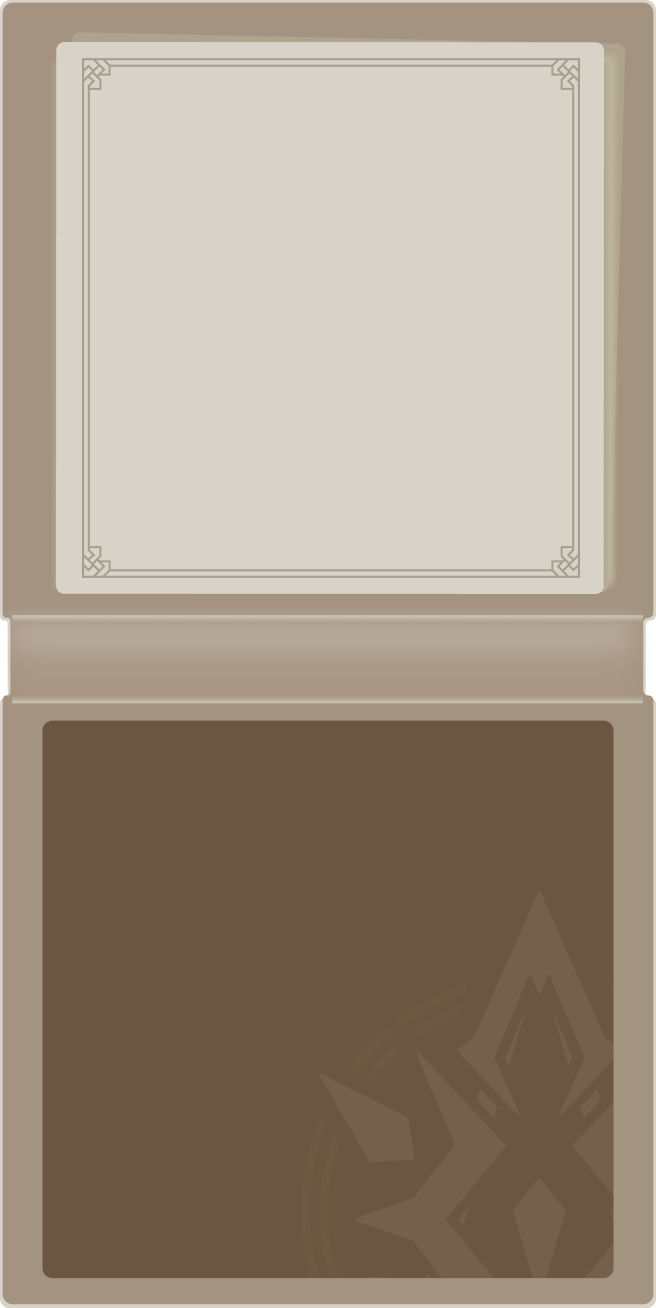
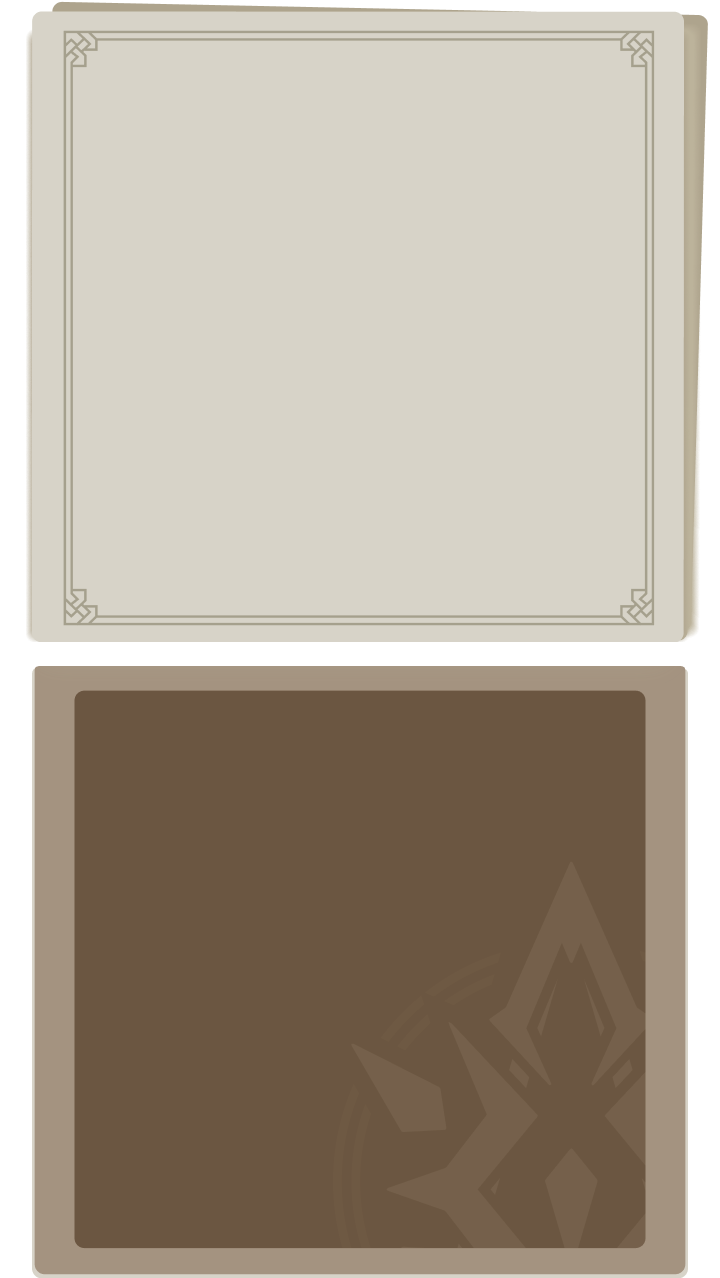
change book mobile armors weapon

Changed region(s): [[0.0, 0.0, 1.0, 1.0]]

diff --git a/assets/scss/pages/_armors.scss b/assets/scss/pages/_armors.scss
@@ -71,6 +71,7 @@
                         @include media-breakpoint-down(sm) {
                             width: 100% !important;
                             height: auto;
+                            margin-bottom: 7.5rem;
                         }
                         > .col-text {
                             color: $white;
@@ -91,9 +92,8 @@
                                 padding-right: 1rem;
                             }
                             @include media-breakpoint-down(sm) {
-                                margin-top: 5rem;
-                                padding: 2rem 1rem 0 1.75rem;
-                                margin-bottom: 7.5rem;
+                                margin-top: 2.5rem;
+                                padding: 2.5rem 2rem 0 2.5rem;
                             }
                             @include media-breakpoint-down(xs) {
                                 padding-top: 0.875rem;
@@ -142,8 +142,9 @@
                                 position: absolute;
                                 bottom: 3rem;
                                 @include media-breakpoint-down(sm) {
-                                    bottom: -5rem;
-                                    width: 80%;
+                                    bottom: unset;
+                                    top: 11rem;
+                                    width: 65%;
                                     left: 0;
                                     right: 0;
                                     margin-left: auto !important;

diff --git a/assets/scss/pages/_weapons.scss b/assets/scss/pages/_weapons.scss
@@ -92,8 +92,8 @@
                                 padding-right: 1rem;
                             }
                             @include media-breakpoint-down(sm) {
-                                margin-top: 5rem;
-                                padding: 2rem 1rem 0 1.75rem;
+                                margin-top: 2.5rem;
+                                padding: 2.5rem 2rem 0 2.5rem;
                             }
                             @include media-breakpoint-down(xs) {
                                 padding-top: 0.875rem;
@@ -144,7 +144,7 @@
                                 @include media-breakpoint-down(sm) {
                                     bottom: unset;
                                     top: 12.5rem;
-                                    width: 80%;
+                                    width: 65%;
                                     left: 0;
                                     right: 0;
                                     margin-left: auto !important;
@@ -174,6 +174,10 @@
                             margin: 0 !important;
                             @include media-breakpoint-down(sm) {
                                 padding-right: 1rem;
+                                justify-content: center;
+                                > img {
+                                    width: 95%;
+                                }
                             }
                         }
                     }

diff --git a/components/pages/weapons/weapons-main.js b/components/pages/weapons/weapons-main.js
@@ -189,7 +189,7 @@ const WeaponsMain = () => {
               />
             </div>
             <div className="col-lg-7 col-img">
-              <img src={width > 576 ? book : bookMobile} className="img-fluid img-book" alt="" />
+              <img src={width > 756 ? book : bookMobile} className="img-fluid img-book" alt="" />
               <Slider
                 fade
                 infinite

diff --git a/components/pages/armors/armors-main.js b/components/pages/armors/armors-main.js
@@ -188,7 +188,7 @@ const ArmorsMain = () => {
               />
             </div>
             <div className="col-lg-7 col-img">
-              <img src={width > 576 ? book : bookMobile} className="img-fluid img-book" alt="" />
+              <img src={width > 756 ? book : bookMobile} className="img-fluid img-book" alt="" />
               <Slider
                 fade
                 infinite
